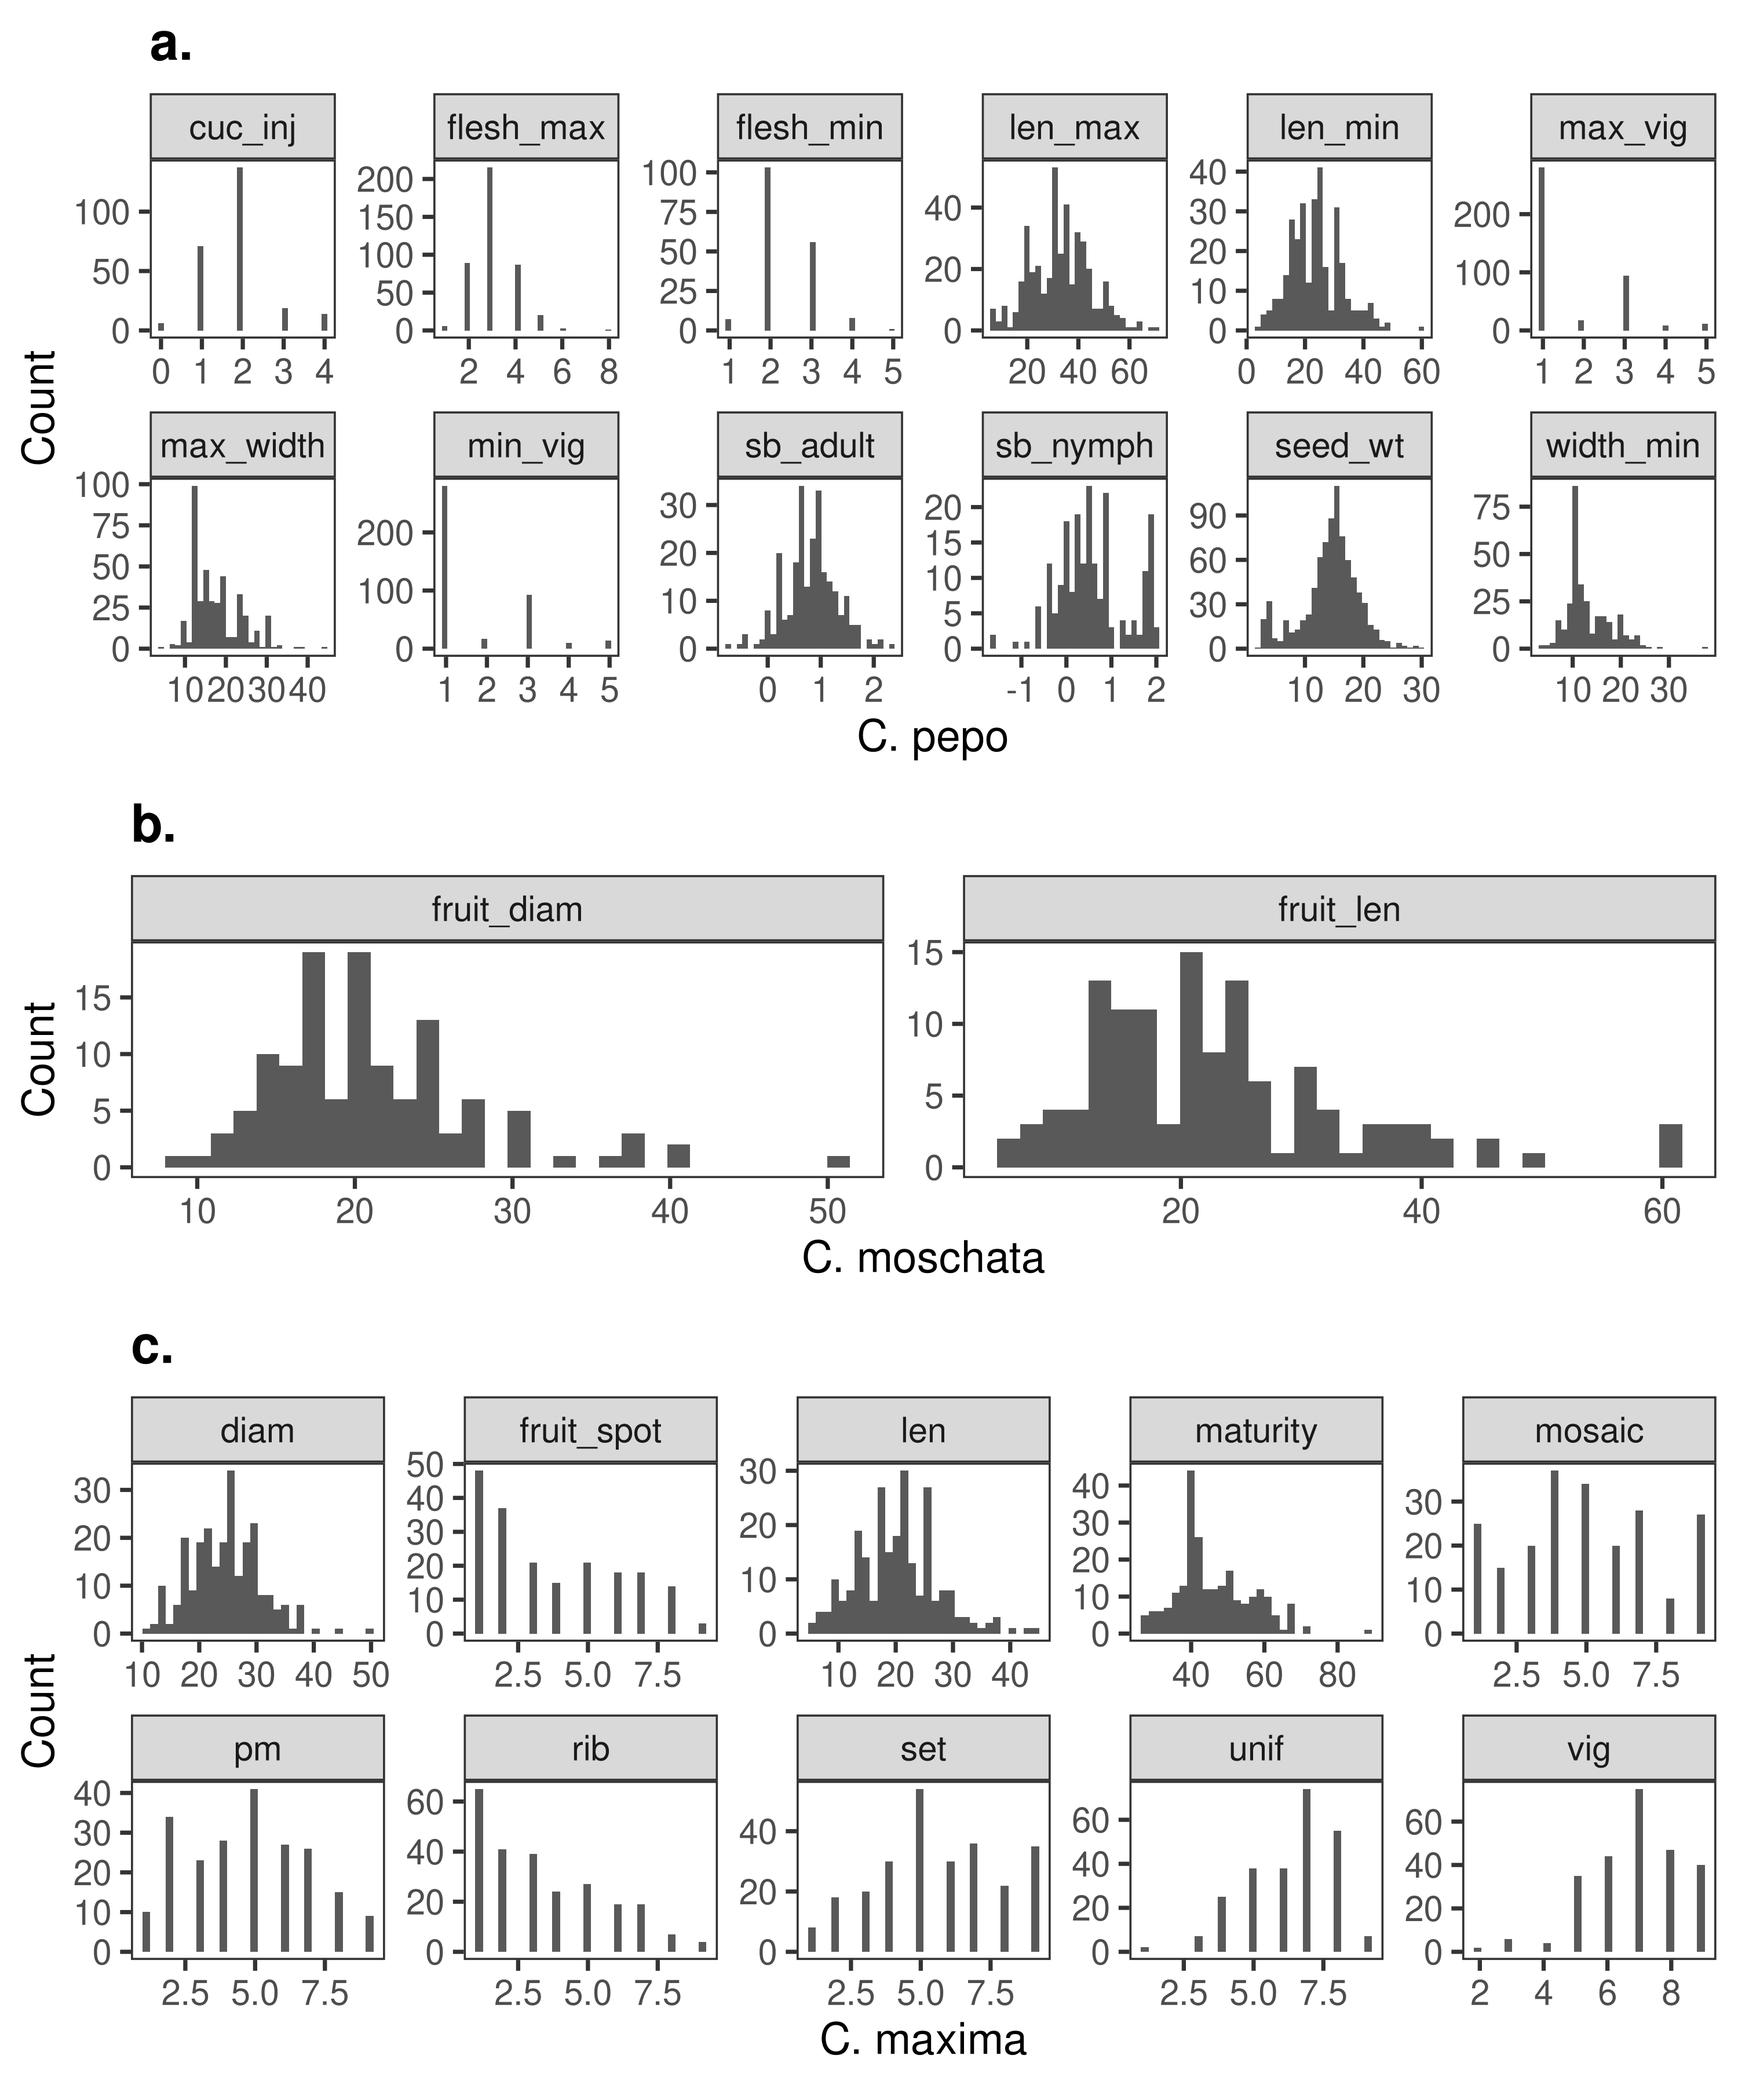
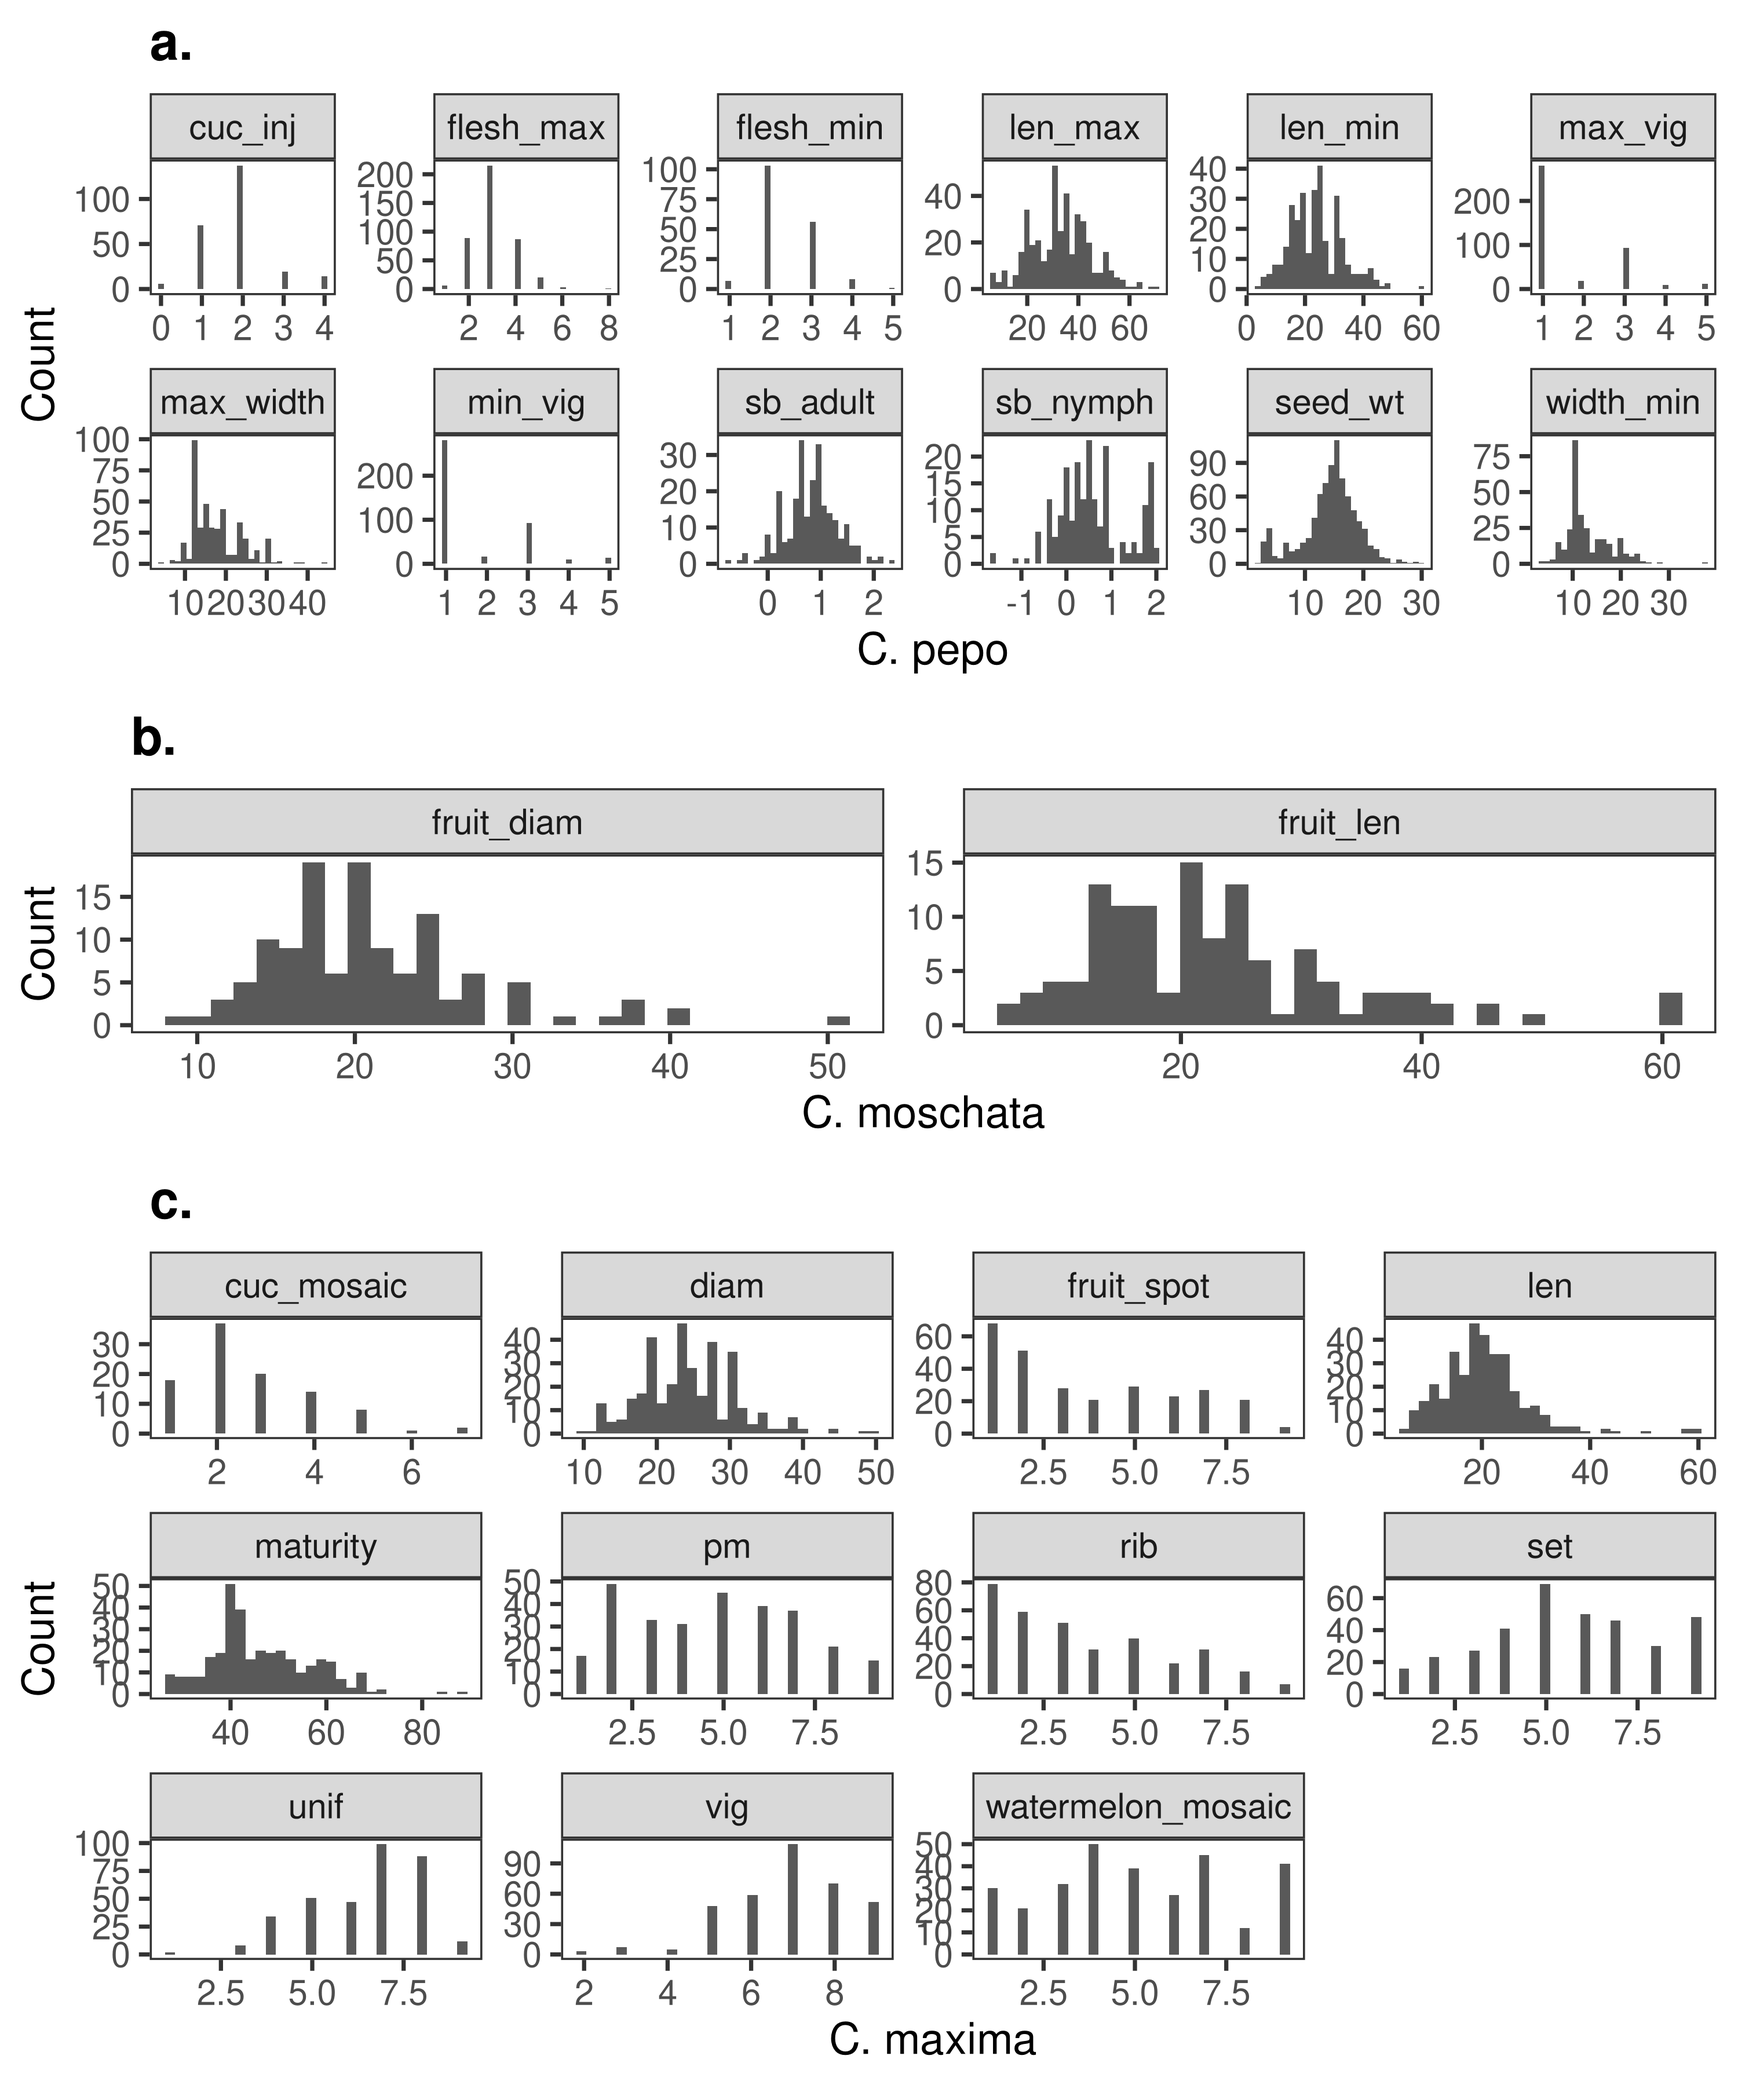
update

diff --git a/tables/03_tbl.md b/tables/03_tbl.md
@@ -1,0 +1,51 @@
+|Species     |Coded.Trait.Name  |Trait.Type   |Description                                                          |
+|:-----------|:-----------------|:------------|:--------------------------------------------------------------------|
+|C. pepo     |                  |             |                                                                     |
+|            |seed_wt           |Quantitative |Weight of 100 seeds in grams                                         |
+|            |plant_type        |Binary       |Historical plant architecture data coded as vining or bush           |
+|            |plant_type2       |Binary       |Contemporary plant architecture data coded as vining or bush         |
+|            |max_vig           |Ordinal      |Maximum plant vigor on 1-5 scale                                     |
+|            |min_vig           |Ordinal      |Minimum plant vigor on 1-5 scale                                     |
+|            |max_width         |Quantitative |Maximum fruit width in centimeters                                   |
+|            |width_min         |Quantitative |Minimum fruit width in centimeters                                   |
+|            |len_max           |Quantitative |Maximum fruit length in centimeters                                  |
+|            |len_min           |Quantitative |Minimum fruit length in centimeters                                  |
+|            |flesh_max         |Ordinal      |Maximum fruit thickness in centimeters                               |
+|            |sb_nymph          |Quantitative |Number of squash bug nymphs on plant                                 |
+|            |sb_adult          |Quantitative |Number of adult squash bugs on plant                                 |
+|            |cuc_inj           |Ordinal      |Severity of beetle damage on a 0-4 scale                             |
+|            |or_flesh          |Binary       |Flesh color coded as orange or not orange                            |
+|            |yl_flesh          |Binary       |Flesh color coded as yellow or not yellow                            |
+|            |yl_fruit          |Binary       |Color of fruit coded as yellow or not yellow                         |
+|            |tan_fruit         |Binary       |Color of fruit coded as tan or not tan                               |
+|            |gn_fruit          |Binary       |Color of fruit coded as green or not green                           |
+|            |globe_fruit       |Binary       |Fruit shape as globe or not globe                                    |
+|            |oblong_fruit      |Binary       |Fruit shape as oblong or not oblong                                  |
+|            |smooth_fruit      |Binary       |Furit texture as smooth or not smooth                                |
+|            |rib_fruit         |Binary       |Degree of ribbing                                                    |
+|            |spec_fruit        |Binary       |Fruit patterning as speckled or not speckled                         |
+|            |mot_fruit         |Binary       |Fuit patterning as mottled or not mottled                            |
+|            |solid_fruit       |Binary       |Fruit patterning as solid color or patterned                         |
+|C. moschata |                  |             |                                                                     |
+|            |fruit_len         |Quantitative |Fruit length in centimeters                                          |
+|            |fruit_diam        |Quantitative |Fruit diameter in centimeters                                        |
+|            |maturity          |Binary       |Fruit maturity as early or late                                      |
+|            |or_fruit          |Binary       |Fruit color coded as orange or not orange                            |
+|            |smooth_fruit      |Binary       |Fruit surface texture encoded as smooth or not smooth                |
+|C. maxima   |                  |             |                                                                     |
+|            |len               |Quantitative |Fruit length in centimeters                                          |
+|            |set               |Ordinal      |Fruit set from poor to excellent (1-9)                               |
+|            |diam              |Quantitative |Fruit diameter in centimeters                                        |
+|            |watermelon_mosaic |Ordinal      |Susceptibility to WMV from slight to severe (0-9)                    |
+|            |cuc_mosaic        |Ordinal      |Cucumber mosaic susceptibility from slight to severe (0-9)           |
+|            |maturity          |Quantitative |Number of days from field transplanting to date of first pollination |
+|            |unif              |Ordinal      |Fruit uniformity from poor to excellent (1-9)                        |
+|            |pm                |Ordinal      |Susceptibility to PM from slight to severe (0-9)                     |
+|            |plant_habit       |Binary       |Plant type as vining or not vining                                   |
+|            |vig               |Ordinal      |Plant vigor from poor to excellent (1-9)                             |
+|            |or_flesh          |Binary       |Flesh color as orange or not orange                                  |
+|            |rib               |Ordinal      |Fruit ribbing from slight to pronounced (1-9)                        |
+|            |fruit_spot        |Ordinal      |Fruit spotting from slight to pronounced (1-9)                       |
+|            |gray_fruit        |Binary       |Fruit color encoded as gray or not gray                              |
+|            |or_fruit          |Binary       |Fruit color encoded as orange or not orange                          |
+|            |gn_fruit          |Binary       |Fruit color encoded as green or not green                            |

diff --git a/tables/02_tbl.md b/tables/02_tbl.md
@@ -1,0 +1,13 @@
+| Group|Species                                                           |X                                                                    |X.1                                           |
+|-----:|:-----------------------------------------------------------------|:--------------------------------------------------------------------|:---------------------------------------------|
+|    NA|C. pepo                                                           |C. moschata                                                          |C. maxima                                     |
+|     1|Mixed Group; Many from Spain, Turkey, and Syria                   |Mostly from Mexico                                                   |Mixed;  Primarily from South America and Asia |
+|     2|Wild subsp. Ovifera var. texana and var. ozarkana; North American |Mostly Mexico and Guatemala                                          |Mixed; Primarily from Asia and Europe         |
+|     3|Majority from Turkey                                              |Mostly from Mexico                                                   |Mostly from North Macedonia                   |
+|     4|Majority from North Macedonia                                     |Mostly from Africa                                                   |Mostly from Argentina                         |
+|     5|Majority from Egypt                                               |Mostly from India                                                    |Mostly Turkey, Iran, Afghanistan              |
+|     6|Majority from Mexico                                              |Mixed origin Europe and Americas;Many similar to cheese or neck type |Mostly from Africa                            |
+|     7|Majority from Syria                                               |                                                                     |                                              |
+|     8|Majority from Pakistan and Afghanistan                            |                                                                     |                                              |
+|     9|Majority from Spain                                               |                                                                     |                                              |
+|    10|Wild subsp. Fraterna; Central American                            |                                                                     |                                              |
